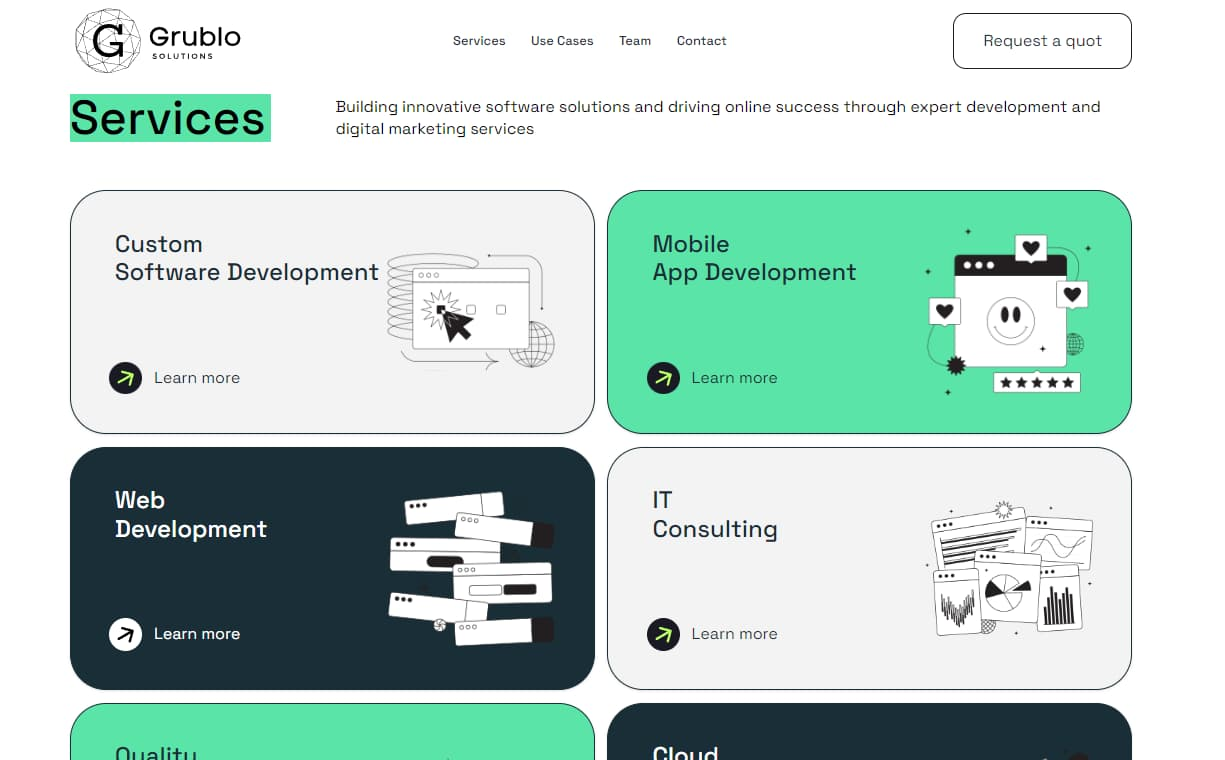
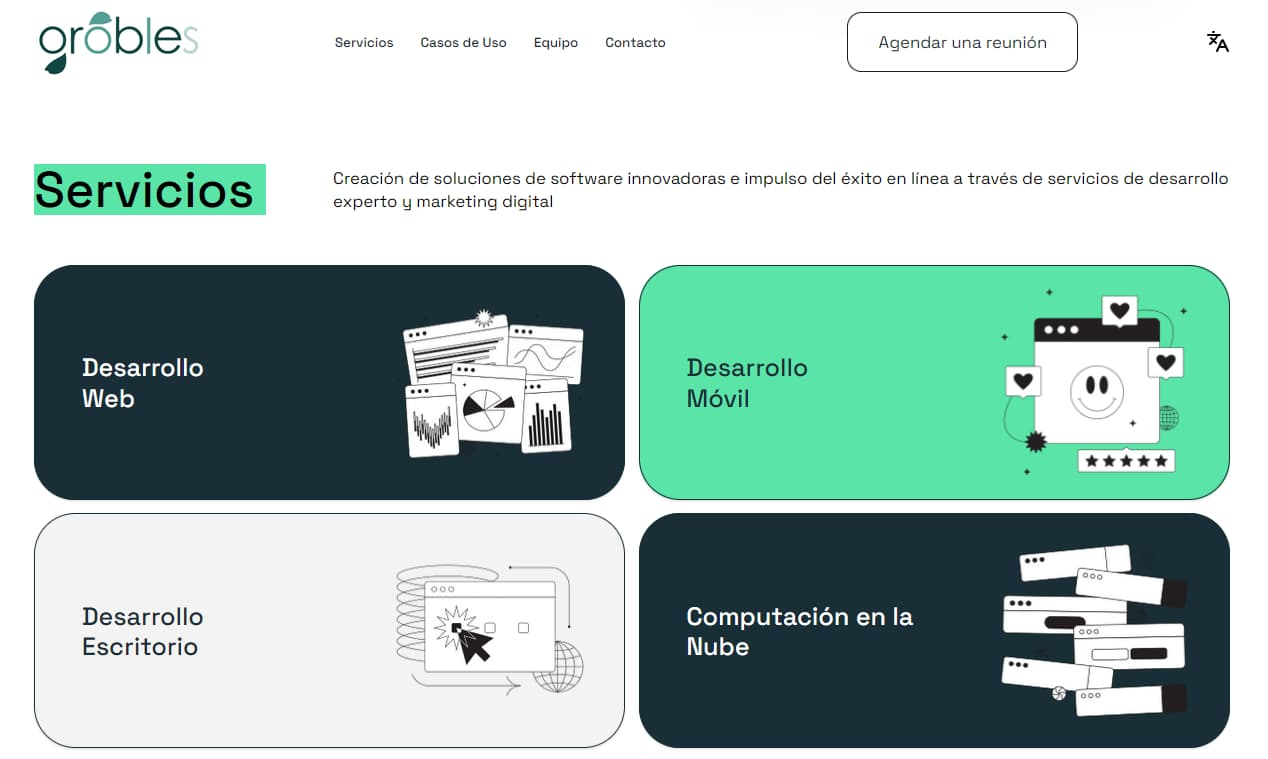
Grublo to Grobles

diff --git a/src/constants/products.tsx b/src/constants/products.tsx
@@ -88,8 +88,8 @@ export const products = [
     ),
   },
   {
-    href: "https://grublo.netlify.app",
-    title: "Grublo",
+    href: "https://grobles.netlify.app",
+    title: "Grobles",
     description:
       "Software development company with a focus on web development and design.",
     thumbnail: "/images/grublo.jpg",
@@ -99,7 +99,7 @@ export const products = [
     content: (
       <div>
         <p>
-          Grublo specializes in creating high-quality websites and web
+          Grobles specializes in creating high-quality websites and web
           applications, combining innovative design with robust development
           practices. Our team of experts delivers customized solutions tailored
           to meet the unique needs of each client, ensuring functionality,
@@ -107,7 +107,7 @@ export const products = [
         </p>
         <p>
           As a result, businesses can enhance their online presence, engage
-          their audience effectively, and achieve their digital goals. Grublo’s
+          their audience effectively, and achieve their digital goals. Grobles’s
           commitment to excellence in web development and design makes us a
           trusted partner for companies looking to succeed in the digital
           landscape.
